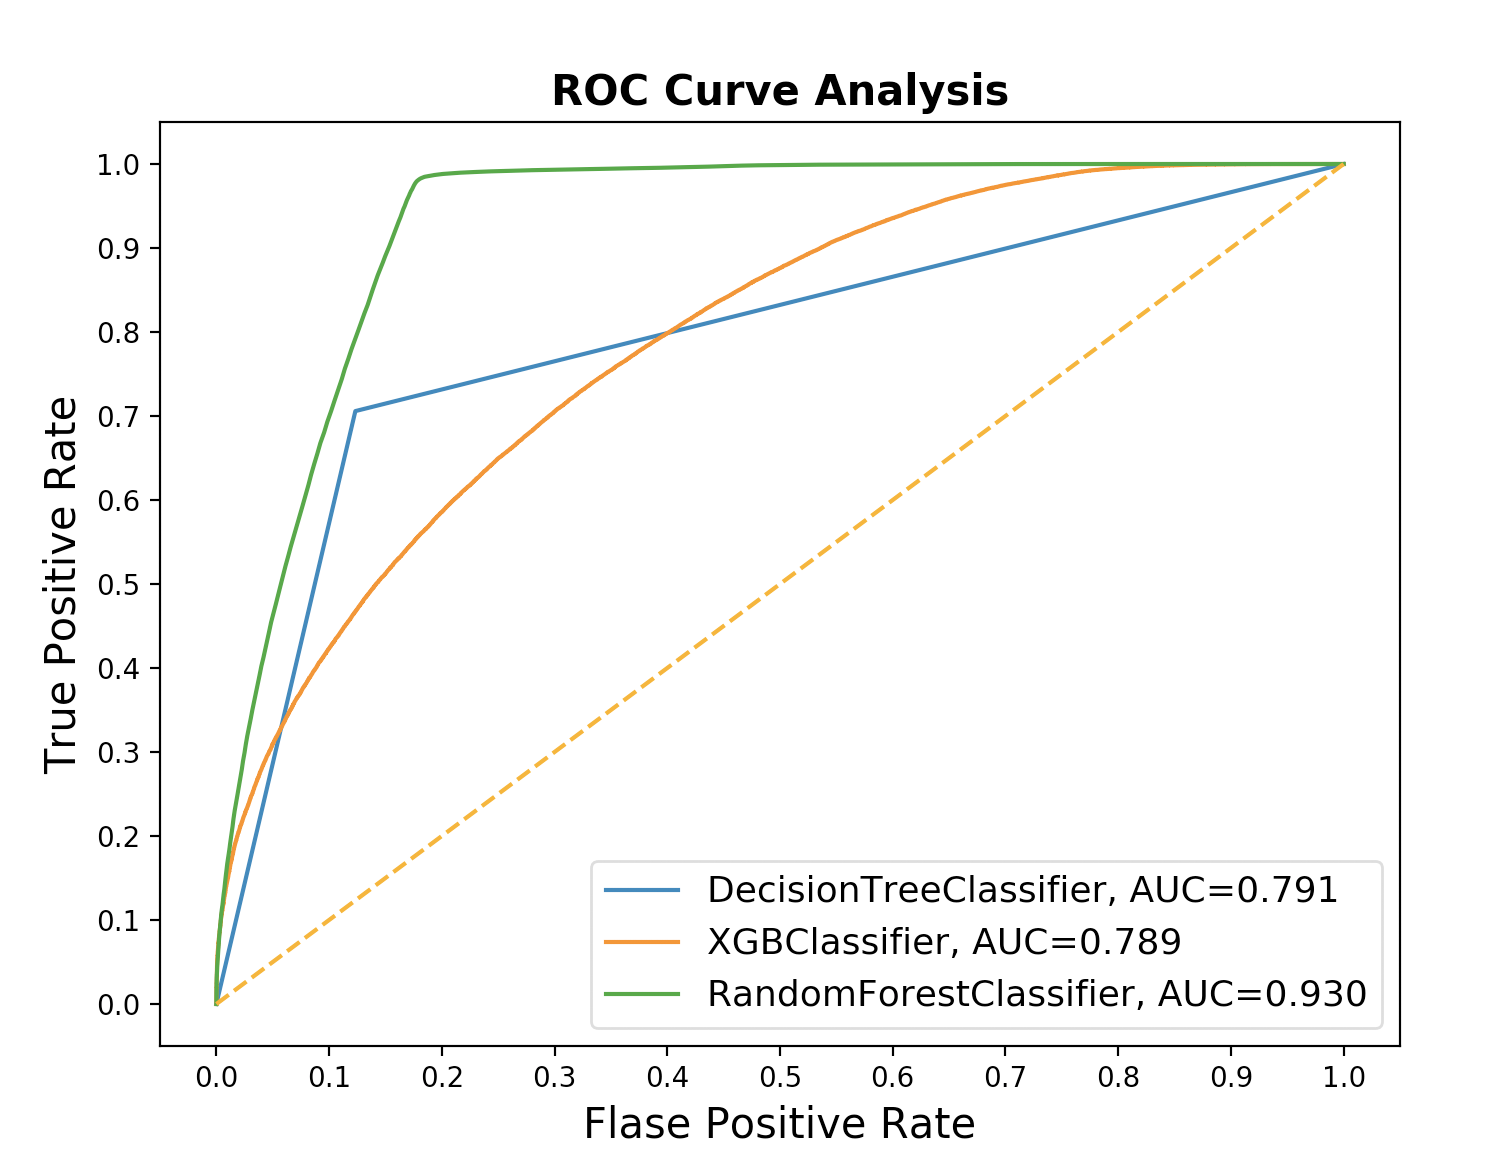
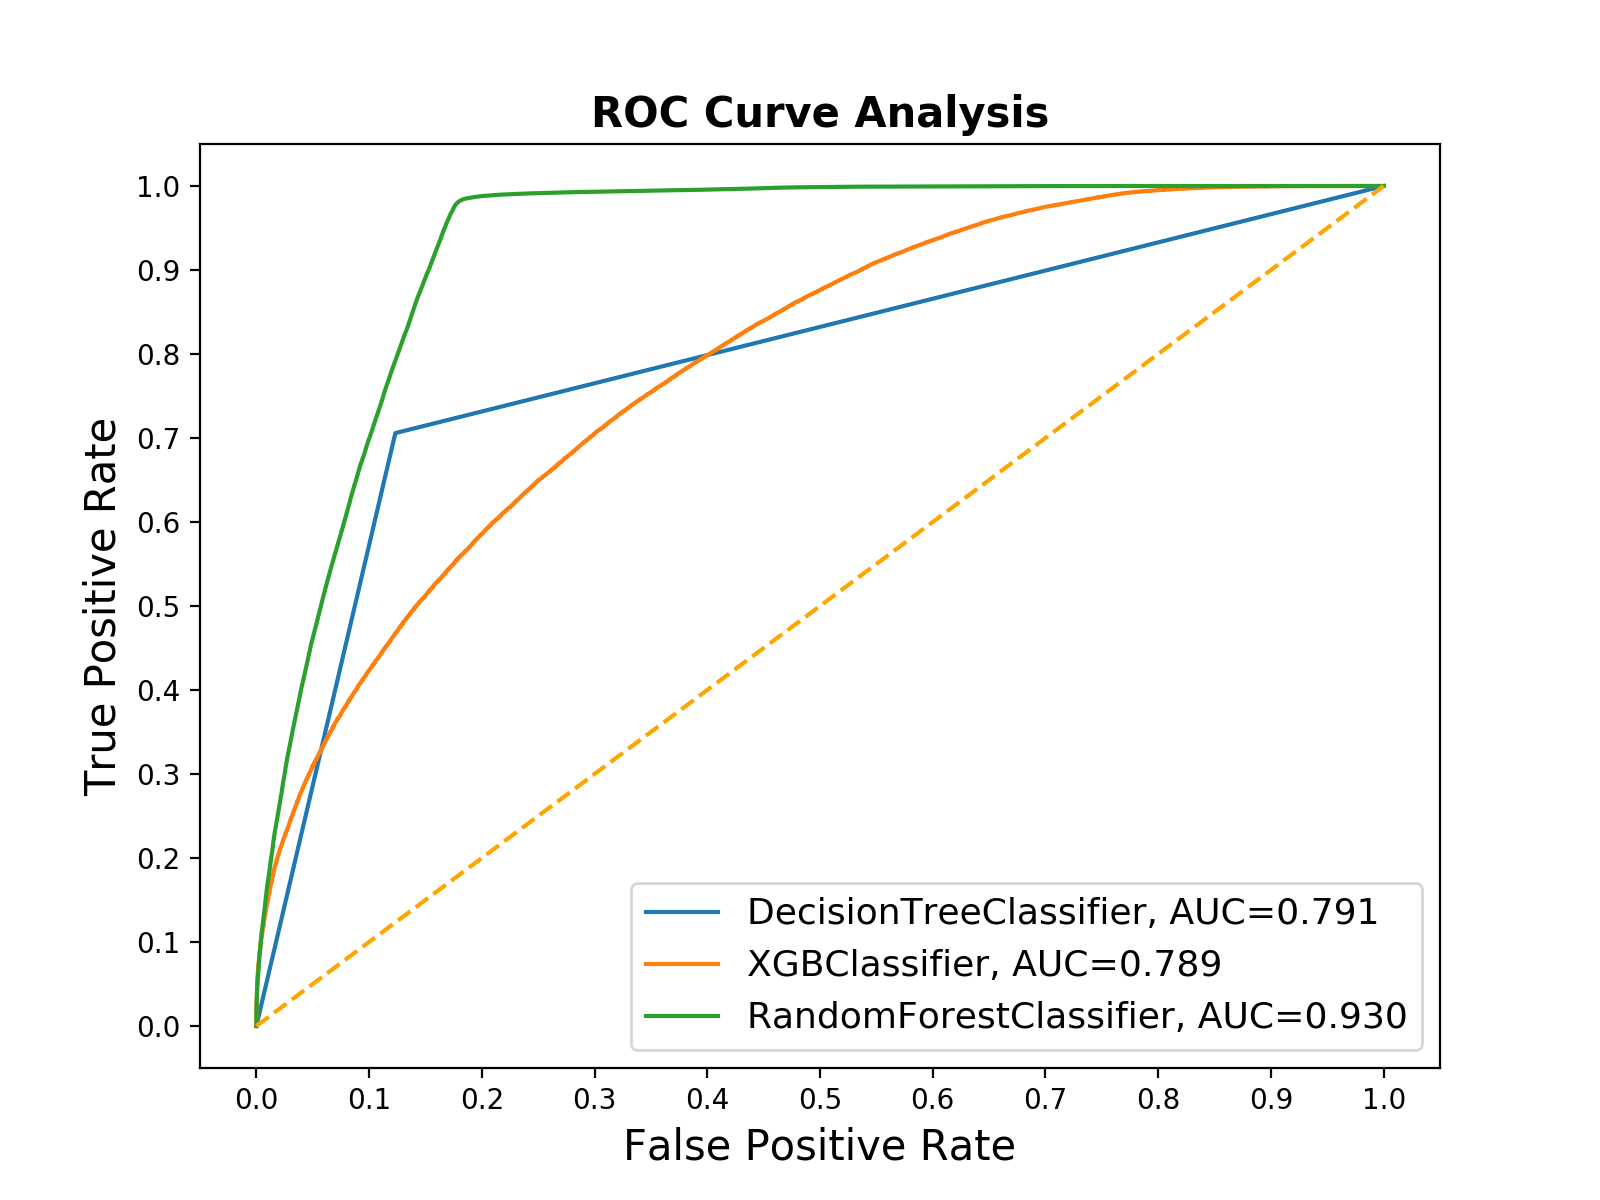
update ROC

diff --git a/Python/mlb_final_v2.py b/Python/mlb_final_v2.py
@@ -3,6 +3,9 @@ mlb_final.py includes a Decision Tree, XGBoost Classifier, Random Forest, Voting
     to predict at-bat outcomes.
 '''
 
+import os
+os.chdir('/Users/mabbate/Desktop/Python_Projects/CS733/Final_Project')
+
 import pandas as pd
 import numpy as np
 import matplotlib.pyplot as plt
@@ -140,7 +143,7 @@ def main():
     plt.plot([0, 1], [0, 1], color='orange', linestyle='--')
 
     plt.xticks(np.arange(0.0, 1.1, step=0.1))
-    plt.xlabel("Flase Positive Rate", fontsize=15)
+    plt.xlabel("False Positive Rate", fontsize=15)
 
     plt.yticks(np.arange(0.0, 1.1, step=0.1))
     plt.ylabel("True Positive Rate", fontsize=15)
